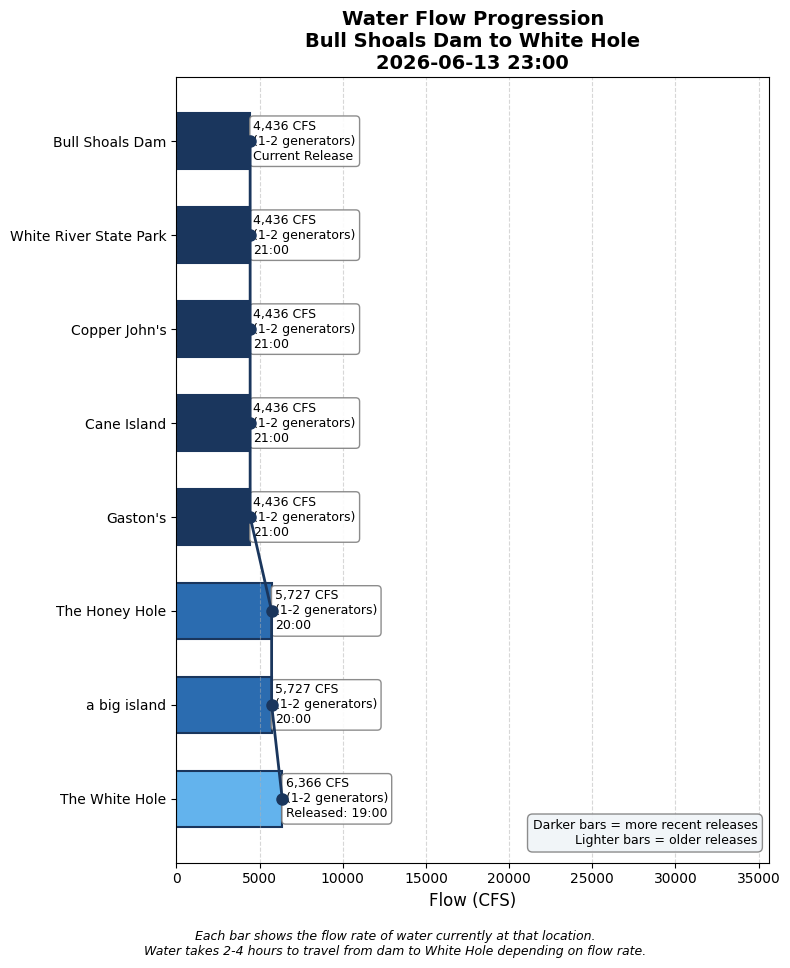
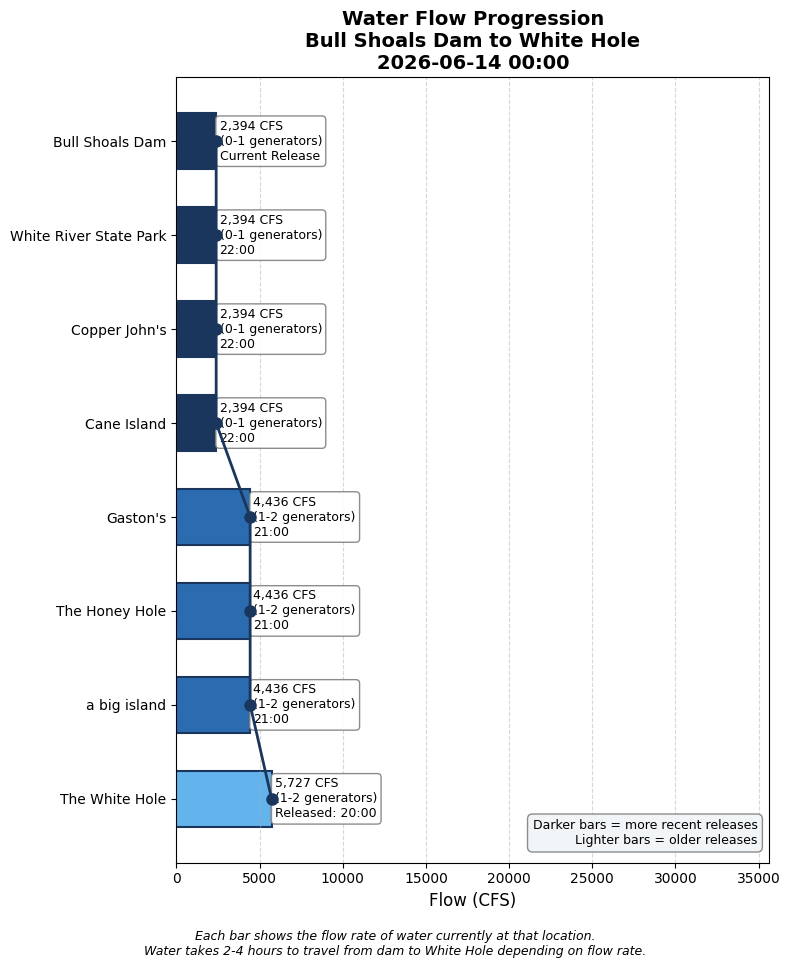
Update water conditions 2026-06-14 00:00

Changed region(s): [[0.2127, 0.093, 0.5165, 0.8678], [0.4861, 0.062, 0.6987, 0.093]]

diff --git a/white_hole_conditions.html b/white_hole_conditions.html
@@ -3,7 +3,7 @@
 <head>
     <meta charset="UTF-8">
     <meta name="viewport" content="width=device-width, initial-scale=1.0">
-    <title>White Hole Conditions - 2026-06-13 23:00</title>
+    <title>White Hole Conditions - 2026-06-14 00:00</title>
     <style>
         body {
             font-family: -apple-system, BlinkMacSystemFont, 'Segoe UI', Roboto, sans-serif;
@@ -148,7 +148,7 @@
 </head>
 <body>
     <h1>White Hole Current Conditions</h1>
-    <p class="subtitle">Saturday, June 13, 2026 at 11:00 PM</p>
+    <p class="subtitle">Sunday, June 14, 2026 at 12:00 AM</p>
 
     <!-- HEADLINE BANNER -->
     <div class="headline-banner">
@@ -160,7 +160,7 @@
     <!-- CURRENT CONDITIONS -->
     <div class="current-conditions">
         <h3>Current Conditions at White Hole</h3>
-        <div class="flow-display">6,366 CFS</div>
+        <div class="flow-display">5,727 CFS</div>
         <div class="generator-display">Equivalent to 1-2 generators</div>
         <div class="condition-pills">
             <span class="pill wading">No Wading</span>
@@ -189,9 +189,33 @@
                 <tr><td colspan="3" style="padding: 8px 10px; font-size: 0.8em; font-weight: bold; color: #6b46c1; text-transform: uppercase; letter-spacing: 0.05em; background-color: #f3e8ff;">Scheduled (SWPA forecast)</td></tr>
                 
                     <tr style="background-color: #faf5ff; border-left: 4px solid #38a169;">
-                        <td style="padding: 10px; font-weight: bold;">11 PM</td>
+                        <td style="padding: 10px; font-weight: bold;">3 AM</td>
                         <td style="padding: 10px;">723 CFS<br><small style="color: #666;">(0-1 generators: 473 generation + 250 min flow)</small></td>
-                        <td style="padding: 10px;">~2:44 AM
+                        <td style="padding: 10px;">~6:44 AM
+                            <span style="display: inline-block; margin-left: 6px; padding: 2px 8px; border-radius: 12px; font-size: 0.8em; background-color: #d1fae5; color: #065f46;">Excellent Wading</span>
+                        </td>
+                    </tr>
+                
+                    <tr style="background-color: #faf5ff; border-left: 4px solid #38a169;">
+                        <td style="padding: 10px; font-weight: bold;">2 AM</td>
+                        <td style="padding: 10px;">723 CFS<br><small style="color: #666;">(0-1 generators: 473 generation + 250 min flow)</small></td>
+                        <td style="padding: 10px;">~5:44 AM
+                            <span style="display: inline-block; margin-left: 6px; padding: 2px 8px; border-radius: 12px; font-size: 0.8em; background-color: #d1fae5; color: #065f46;">Excellent Wading</span>
+                        </td>
+                    </tr>
+                
+                    <tr style="background-color: #faf5ff; border-left: 4px solid #38a169;">
+                        <td style="padding: 10px; font-weight: bold;">1 AM</td>
+                        <td style="padding: 10px;">723 CFS<br><small style="color: #666;">(0-1 generators: 473 generation + 250 min flow)</small></td>
+                        <td style="padding: 10px;">~4:44 AM
+                            <span style="display: inline-block; margin-left: 6px; padding: 2px 8px; border-radius: 12px; font-size: 0.8em; background-color: #d1fae5; color: #065f46;">Excellent Wading</span>
+                        </td>
+                    </tr>
+                
+                    <tr style="background-color: #faf5ff; border-left: 4px solid #38a169;">
+                        <td style="padding: 10px; font-weight: bold;">12 AM</td>
+                        <td style="padding: 10px;">723 CFS<br><small style="color: #666;">(0-1 generators: 473 generation + 250 min flow)</small></td>
+                        <td style="padding: 10px;">~3:44 AM
                             <span style="display: inline-block; margin-left: 6px; padding: 2px 8px; border-radius: 12px; font-size: 0.8em; background-color: #d1fae5; color: #065f46;">Excellent Wading</span>
                         </td>
                     </tr>
@@ -201,26 +225,26 @@
                 <tr><td colspan="3" style="padding: 8px 10px; font-size: 0.8em; font-weight: bold; color: #2b6cb0; text-transform: uppercase; letter-spacing: 0.05em; background-color: #ebf8ff;">Actual (dam readings)</td></tr>
                 
                     <tr style="background-color: #ebf8ff;">
-                        <td style="padding: 10px; font-weight: bold;">9:00 PM</td>
-                        <td style="padding: 10px;">4,436 CFS<br><small style="color: #666;">(1-2 generators)</small></td>
-                        <td style="padding: 10px;"><span style="color: #2b6cb0;">→ Arrives ~12:25 AM (in 85 min)</span></td>
+                        <td style="padding: 10px; font-weight: bold;">10:00 PM</td>
+                        <td style="padding: 10px;">2,394 CFS<br><small style="color: #666;">(0-1 generators)</small></td>
+                        <td style="padding: 10px;"><span style="color: #2b6cb0;">→ Arrives ~1:44 AM (in 103 min)</span></td>
                     </tr>
                 
                     <tr style="background-color: #ebf8ff;">
-                        <td style="padding: 10px; font-weight: bold;">8:00 PM</td>
-                        <td style="padding: 10px;">5,727 CFS<br><small style="color: #666;">(1-2 generators)</small></td>
-                        <td style="padding: 10px;"><span style="color: #2b6cb0;">→ Arrives ~11:07 PM (in 7 min)</span></td>
+                        <td style="padding: 10px; font-weight: bold;">9:00 PM</td>
+                        <td style="padding: 10px;">4,436 CFS<br><small style="color: #666;">(1-2 generators)</small></td>
+                        <td style="padding: 10px;"><span style="color: #2b6cb0;">→ Arrives ~12:25 AM (in 25 min)</span></td>
                     </tr>
                 
                     <tr style="background-color: #e6fffa;">
-                        <td style="padding: 10px; font-weight: bold;">7:00 PM</td>
-                        <td style="padding: 10px;">6,366 CFS<br><small style="color: #666;">(1-2 generators)</small></td>
+                        <td style="padding: 10px; font-weight: bold;">8:00 PM</td>
+                        <td style="padding: 10px;">5,727 CFS<br><small style="color: #666;">(1-2 generators)</small></td>
                         <td style="padding: 10px;"><span style="color: #319795; font-weight: bold;">← AT WHITE HOLE NOW</span></td>
                     </tr>
                 
                     <tr style="">
-                        <td style="padding: 10px; font-weight: bold;">4:00 PM</td>
-                        <td style="padding: 10px;">6,689 CFS<br><small style="color: #666;">(2 generators)</small></td>
+                        <td style="padding: 10px; font-weight: bold;">5:00 PM</td>
+                        <td style="padding: 10px;">6,731 CFS<br><small style="color: #666;">(2 generators)</small></td>
                         <td style="padding: 10px;"><span style="color: #718096;">passed</span></td>
                     </tr>
                 
@@ -250,9 +274,9 @@
         </summary>
         <div style="padding: 15px;">
             <ul>
-                <li>Latest dam reading: 4,436 CFS at 2026-06-13 21:00</li>
-                <li>Travel time to White Hole: 3.0 hours at current flow</li>
-                <li>White Hole conditions based on dam reading from: 2026-06-13 19:00</li>
+                <li>Latest dam reading: 2,394 CFS at 2026-06-13 22:00</li>
+                <li>Travel time to White Hole: 3.1 hours at current flow</li>
+                <li>White Hole conditions based on dam reading from: 2026-06-13 20:00</li>
             </ul>
         </div>
     </details>
@@ -274,6 +298,13 @@
                     </thead>
                     <tbody>
                         
+                <tr style="border-bottom: 1px solid #eee;">
+                    <td style="padding: 8px;">2026-06-13 22:00</td>
+                    <td style="padding: 8px; text-align: right;">2394</td>
+                    <td style="padding: 8px; text-align: right;">0.7</td>
+                    <td style="padding: 8px; text-align: right;">3.7</td>
+                </tr>
+                
                 <tr style="border-bottom: 1px solid #eee;">
                     <td style="padding: 8px;">2026-06-13 21:00</td>
                     <td style="padding: 8px; text-align: right;">4436</td>
@@ -337,13 +368,6 @@
                     <td style="padding: 8px; text-align: right;">3.7</td>
                 </tr>
                 
-                <tr style="border-bottom: 1px solid #eee;">
-                    <td style="padding: 8px;">2026-06-13 12:00</td>
-                    <td style="padding: 8px; text-align: right;">716</td>
-                    <td style="padding: 8px; text-align: right;">0.2</td>
-                    <td style="padding: 8px; text-align: right;">3.7</td>
-                </tr>
-                
                     </tbody>
                 </table>
             </div>
@@ -351,7 +375,7 @@
         
 
     <div class="timestamp">
-        Data retrieved and processed on 2026-06-13 23:00:08
+        Data retrieved and processed on 2026-06-14 00:00:08
     </div>
 </body>
 </html>
